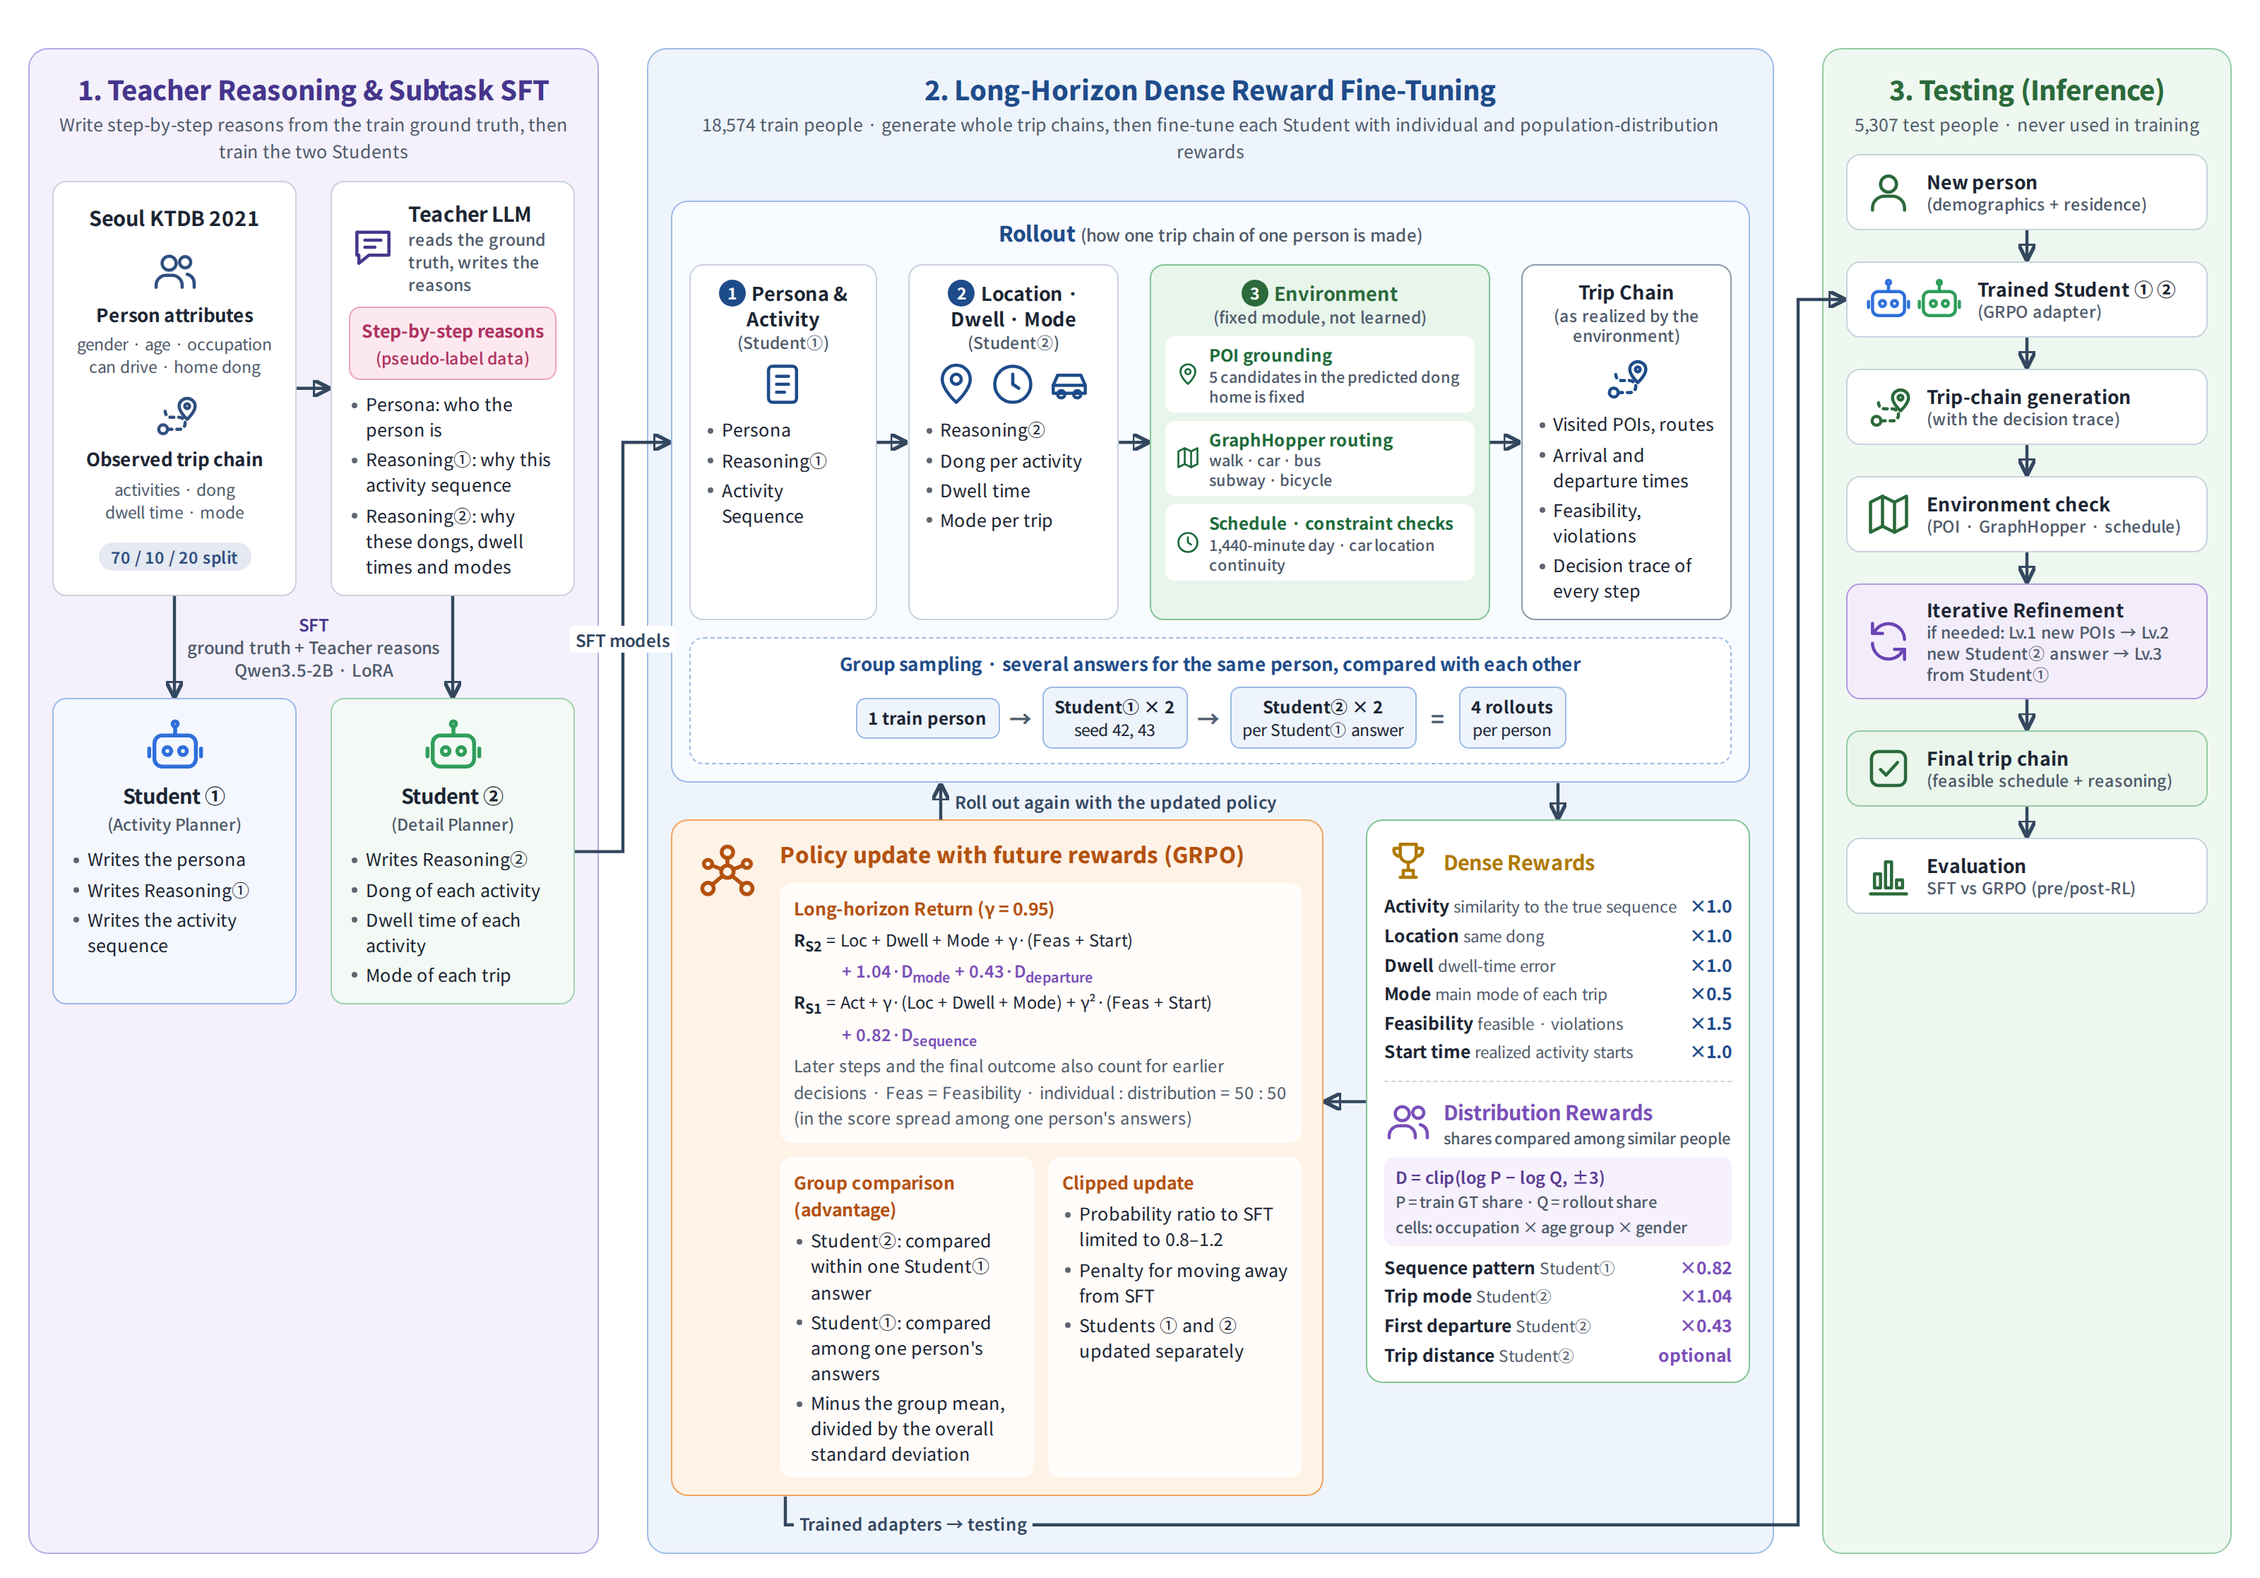
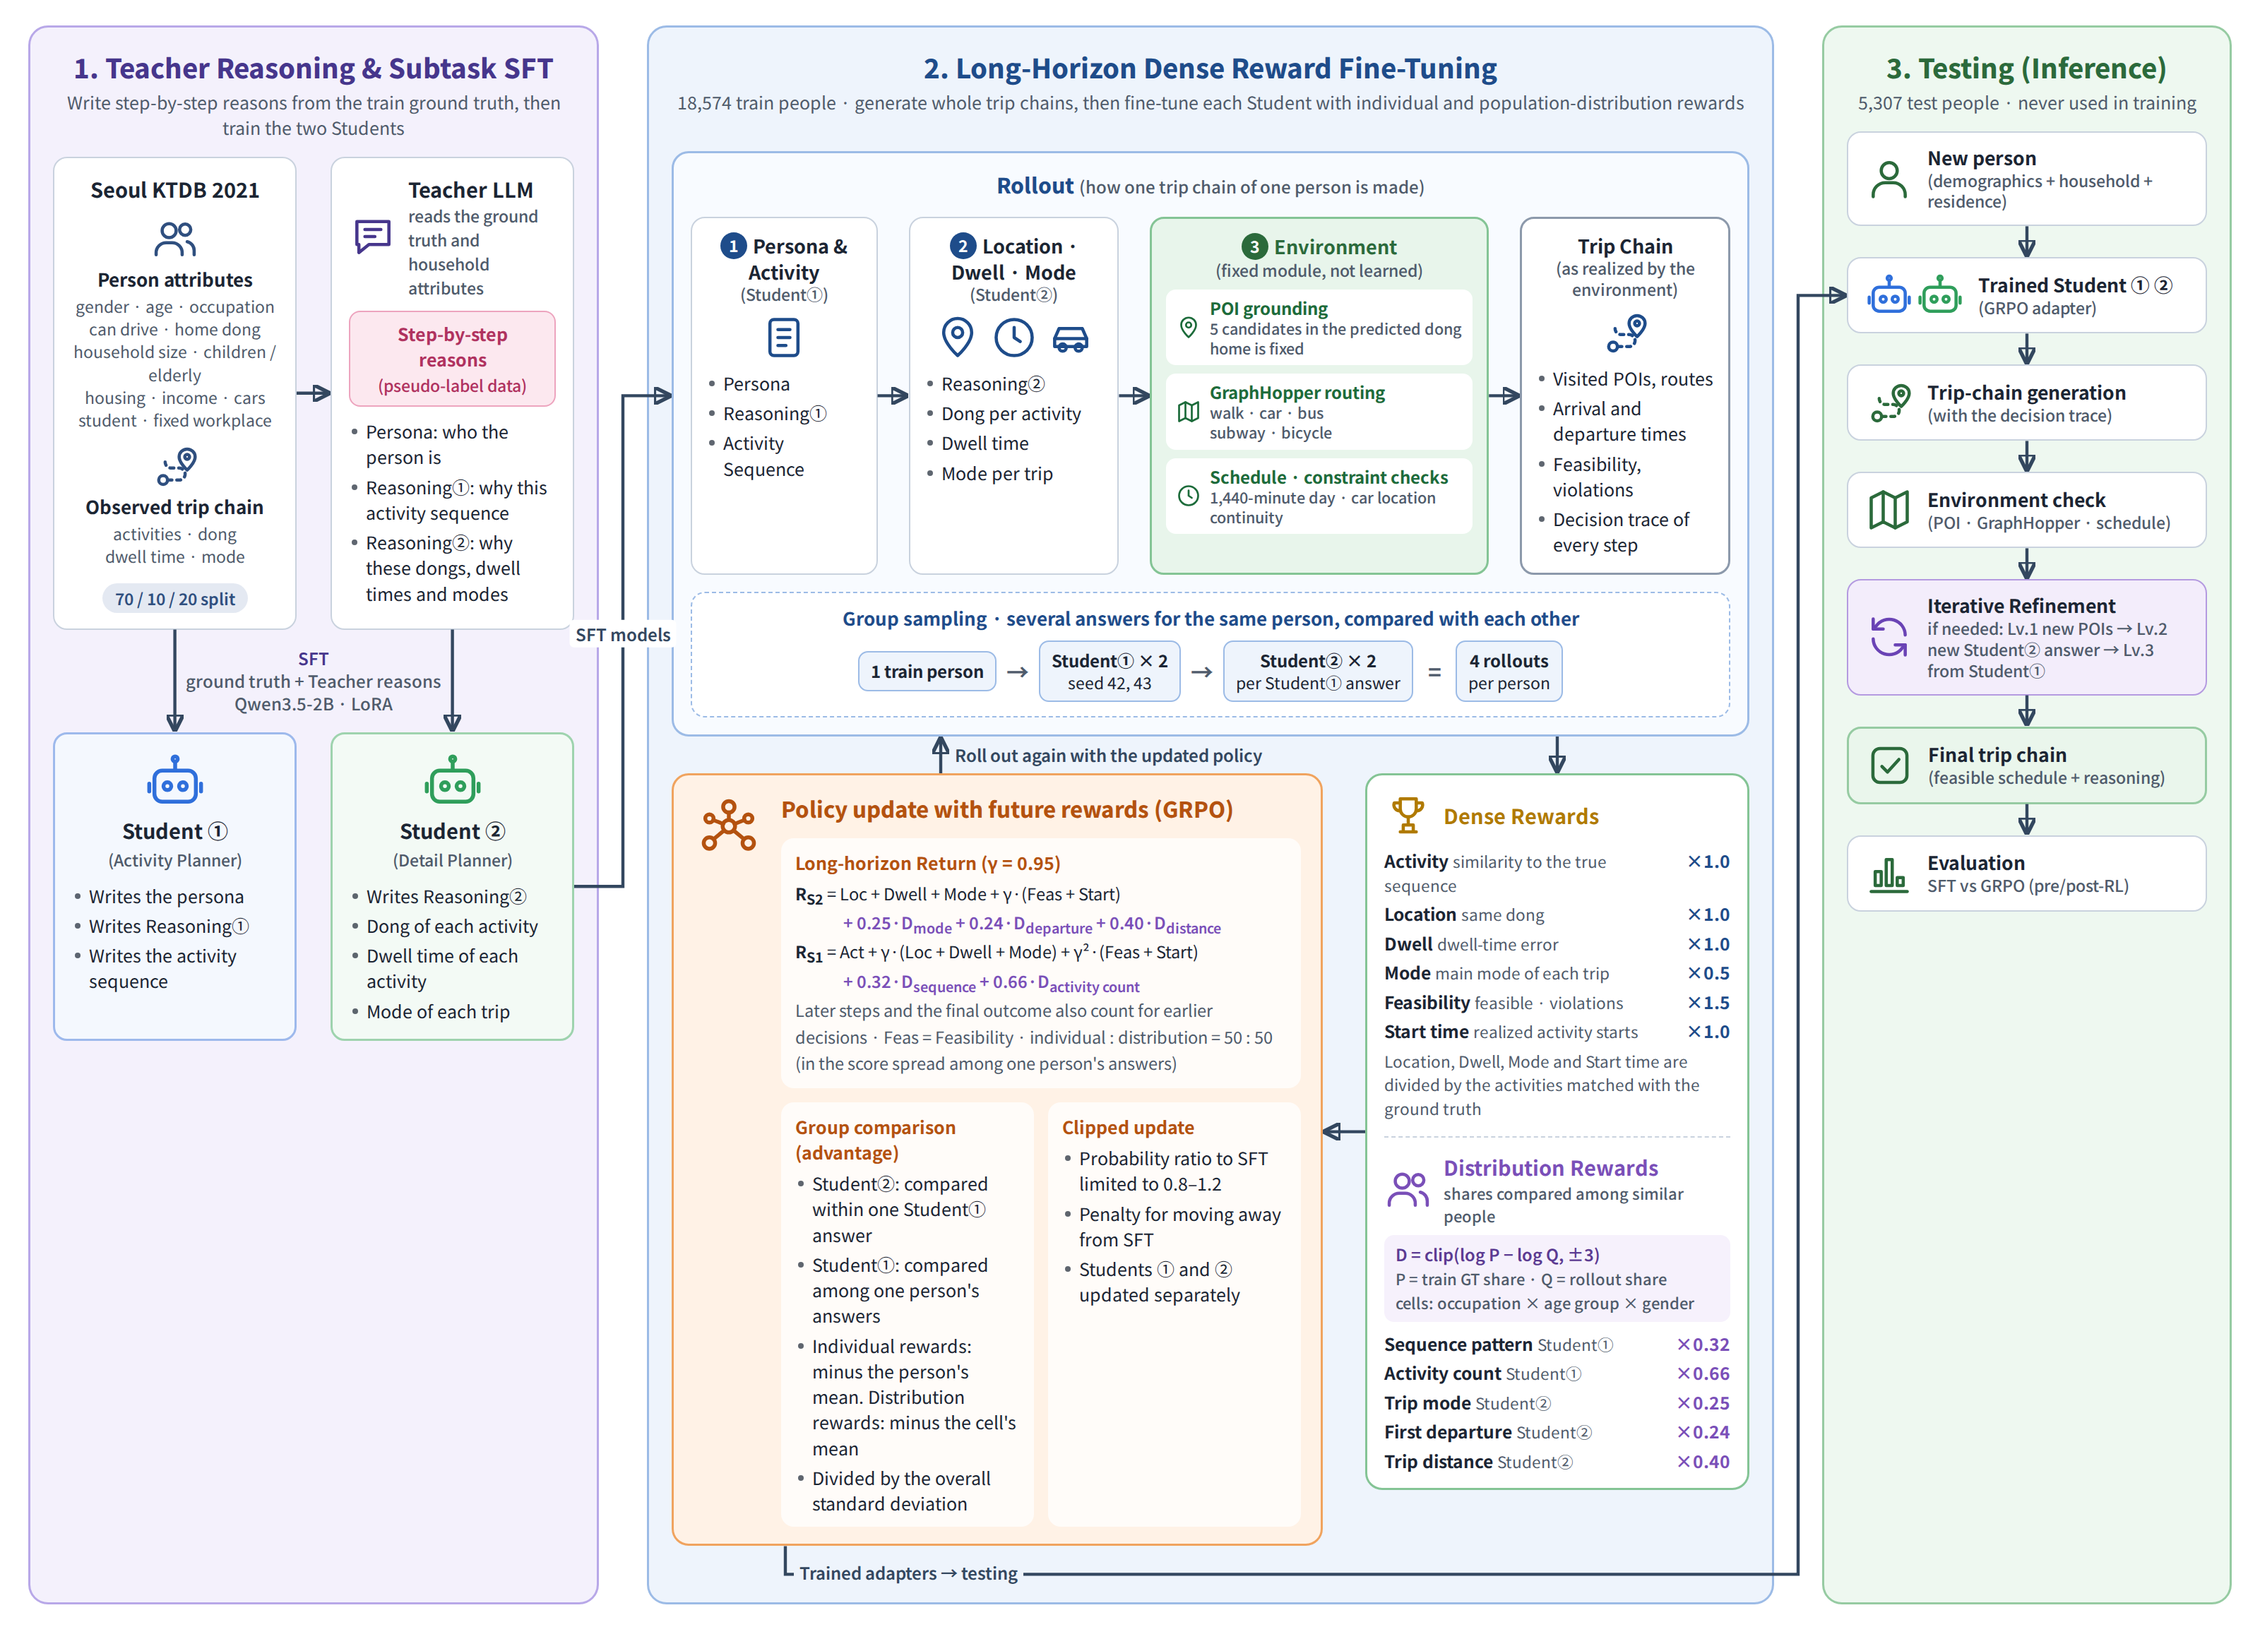
Update the framework figure to the current inputs and rewards
Household attributes in the inputs, the cell-centered distribution rewards, the
matched denominator, the activity-count reward and the current weights
(sequence 0.32, activity count 0.66, trip mode 0.25, first departure 0.24,
trip distance 0.40).

Claude-Session: https://claude.ai/code/session_01NDHANWwgQq952uupQGruAc

diff --git a/docs/figures/src/framework.html b/docs/figures/src/framework.html
@@ -97,12 +97,12 @@
       <div class="row2">
         <div class="card datacard" id="data">
           <div class="ct" style="justify-content:center">Seoul KTDB 2021</div>
-          <div class="blk"><i data-ic="users" class="lg" style="color:#2F4F7F"></i><b>Person attributes</b><span>gender · age · occupation<br>can drive · home dong</span></div>
+          <div class="blk"><i data-ic="users" class="lg" style="color:#2F4F7F"></i><b>Person attributes</b><span>gender · age · occupation<br>can drive · home dong<br>household size · children / elderly<br>housing · income · cars<br>student · fixed workplace</span></div>
           <div class="blk"><i data-ic="route" class="lg" style="color:#2F4F7F"></i><b>Observed trip chain</b><span>activities · dong<br>dwell time · mode</span></div>
           <div><span class="pill" style="background:#E4E9F2;color:#2F4F7F">70 / 10 / 20 split</span></div>
         </div>
         <div class="card teacher" id="teacher">
-          <div class="ct"><i data-ic="chat" class="lg" style="color:var(--p1t)"></i><div>Teacher LLM<small>reads the ground truth, writes the reasons</small></div></div>
+          <div class="ct"><i data-ic="chat" class="lg" style="color:var(--p1t)"></i><div>Teacher LLM<small>reads the ground truth and household attributes</small></div></div>
           <div class="sub">Step-by-step reasons<br><span style="font-weight:500;font-size:11.5px">(pseudo-label data)</span></div>
           <ul class="b">
             <li>Persona: who the person is</li>
@@ -178,11 +178,11 @@
           <div class="gcols">
             <div class="gcol wide">
               <h4>Long-horizon Return (γ = 0.95)</h4>
-              <div class="formula"><b>R<sub>S2</sub></b> = Loc + Dwell + Mode + γ·(Feas + Start)<br><span class="dist ind">+ 1.04·D<sub>mode</sub> + 0.43·D<sub>departure</sub></span><br><b>R<sub>S1</sub></b> = Act + γ·(Loc + Dwell + Mode) + γ²·(Feas + Start)<br><span class="dist ind">+ 0.82·D<sub>sequence</sub></span><br><span style="color:var(--muted)">Later steps and the final outcome also count for earlier decisions · Feas = Feasibility · individual : distribution = 50 : 50 (in the score spread among one person's answers)</span></div>
+              <div class="formula"><b>R<sub>S2</sub></b> = Loc + Dwell + Mode + γ·(Feas + Start)<br><span class="dist ind">+ 0.25·D<sub>mode</sub> + 0.24·D<sub>departure</sub> + 0.40·D<sub>distance</sub></span><br><b>R<sub>S1</sub></b> = Act + γ·(Loc + Dwell + Mode) + γ²·(Feas + Start)<br><span class="dist ind">+ 0.32·D<sub>sequence</sub> + 0.66·D<sub>activity count</sub></span><br><span style="color:var(--muted)">Later steps and the final outcome also count for earlier decisions · Feas = Feasibility · individual : distribution = 50 : 50 (in the score spread among one person's answers)</span></div>
             </div>
             <div class="gcol">
               <h4>Group comparison (advantage)</h4>
-              <ul class="b"><li>Student②: compared within one Student① answer</li><li>Student①: compared among one person's answers</li><li>Minus the group mean, divided by the overall standard deviation</li></ul>
+              <ul class="b"><li>Student②: compared within one Student① answer</li><li>Student①: compared among one person's answers</li><li>Individual rewards: minus the person's mean. Distribution rewards: minus the cell's mean</li><li>Divided by the overall standard deviation</li></ul>
             </div>
             <div class="gcol">
               <h4>Clipped update</h4>
@@ -199,14 +199,16 @@
             <div><b>Mode</b> <span>main mode of each trip</span></div><div class="w">×0.5</div>
             <div><b>Feasibility</b> <span>feasible · violations</span></div><div class="w">×1.5</div>
             <div><b>Start time</b> <span>realized activity starts</span></div><div class="w">×1.0</div>
+            <div style="grid-column: span 2"><span>Location, Dwell, Mode and Start time are divided by the activities matched with the ground truth</span></div>
           </div>
           <div class="ct dct"><i data-ic="users" class="lg"></i><div>Distribution Rewards<small>shares compared among similar people</small></div></div>
           <div class="dformula">D = clip(log P − log Q, ±3)<br><span>P = train GT share · Q = rollout share<br>cells: occupation × age group × gender</span></div>
           <div class="rw">
-            <div><b>Sequence pattern</b> <span>Student①</span></div><div class="w dw">×0.82</div>
-            <div><b>Trip mode</b> <span>Student②</span></div><div class="w dw">×1.04</div>
-            <div><b>First departure</b> <span>Student②</span></div><div class="w dw">×0.43</div>
-            <div><b>Trip distance</b> <span>Student②</span></div><div class="w dw">optional</div>
+            <div><b>Sequence pattern</b> <span>Student①</span></div><div class="w dw">×0.32</div>
+            <div><b>Activity count</b> <span>Student①</span></div><div class="w dw">×0.66</div>
+            <div><b>Trip mode</b> <span>Student②</span></div><div class="w dw">×0.25</div>
+            <div><b>First departure</b> <span>Student②</span></div><div class="w dw">×0.24</div>
+            <div><b>Trip distance</b> <span>Student②</span></div><div class="w dw">×0.40</div>
           </div>
         </div>
       </div>
@@ -216,7 +218,7 @@
     <section class="panel p3" id="p3">
       <div class="ph"><h2>3. Testing (Inference)</h2><p>5,307 test people · never used in training</p></div>
       <div class="tests">
-        <div class="t" id="t1"><i data-ic="user" class="lg"></i><div class="tx">New person<small>(demographics + residence)</small></div></div>
+        <div class="t" id="t1"><i data-ic="user" class="lg"></i><div class="tx">New person<small>(demographics + household + residence)</small></div></div>
         <div class="t" id="t2"><div class="robots"><i data-ic="robot" class="lg" style="color:var(--blue)"></i><i data-ic="robot" class="lg" style="color:var(--green)"></i></div><div class="tx">Trained Student ① ②<small>(GRPO adapter)</small></div></div>
         <div class="t" id="t3"><i data-ic="route" class="lg"></i><div class="tx">Trip-chain generation<small>(with the decision trace)</small></div></div>
         <div class="t" id="t4"><i data-ic="map" class="lg"></i><div class="tx">Environment check<small>(POI · GraphHopper · schedule)</small></div></div>
